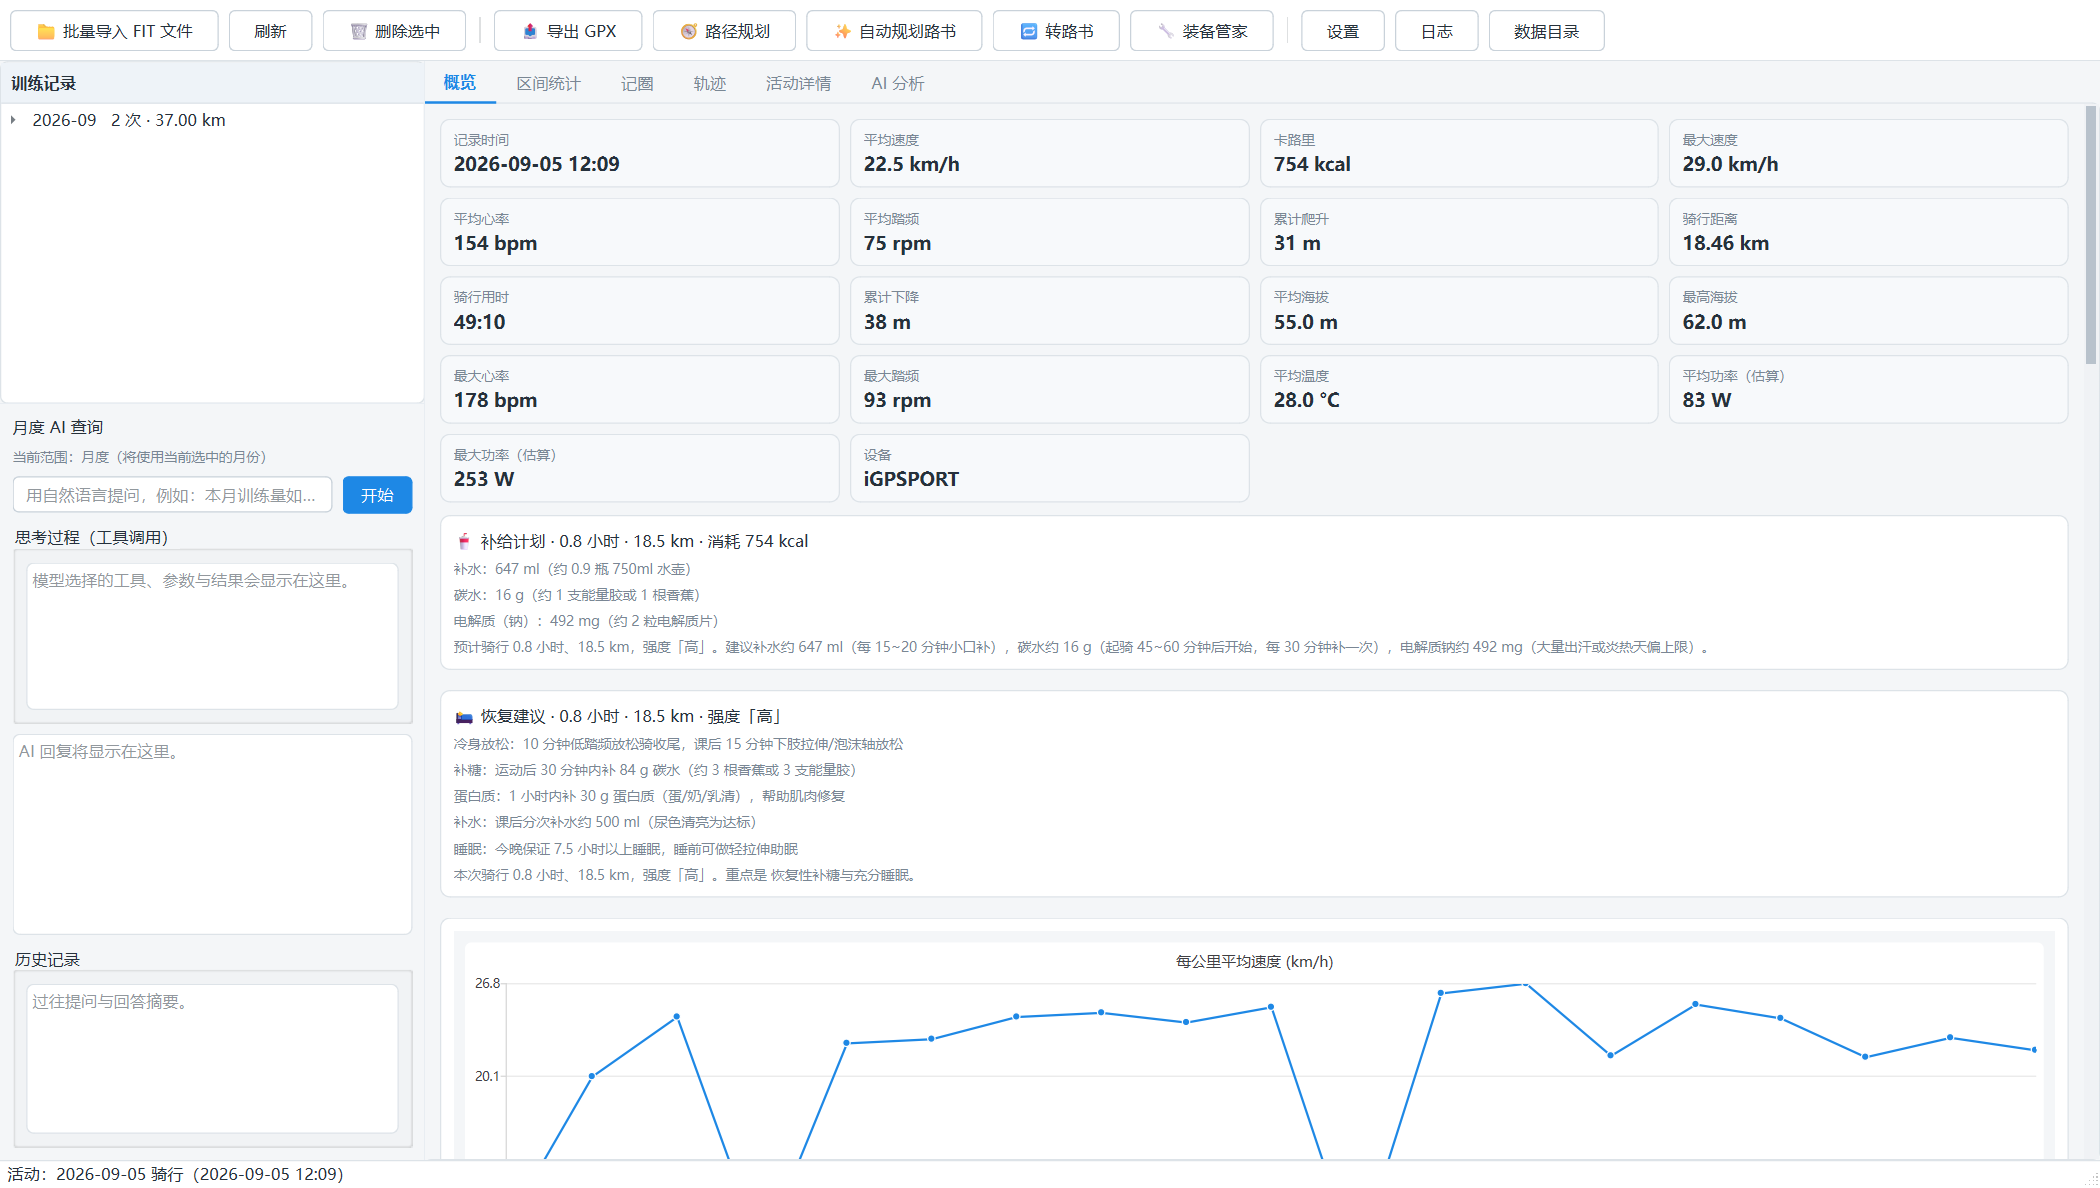
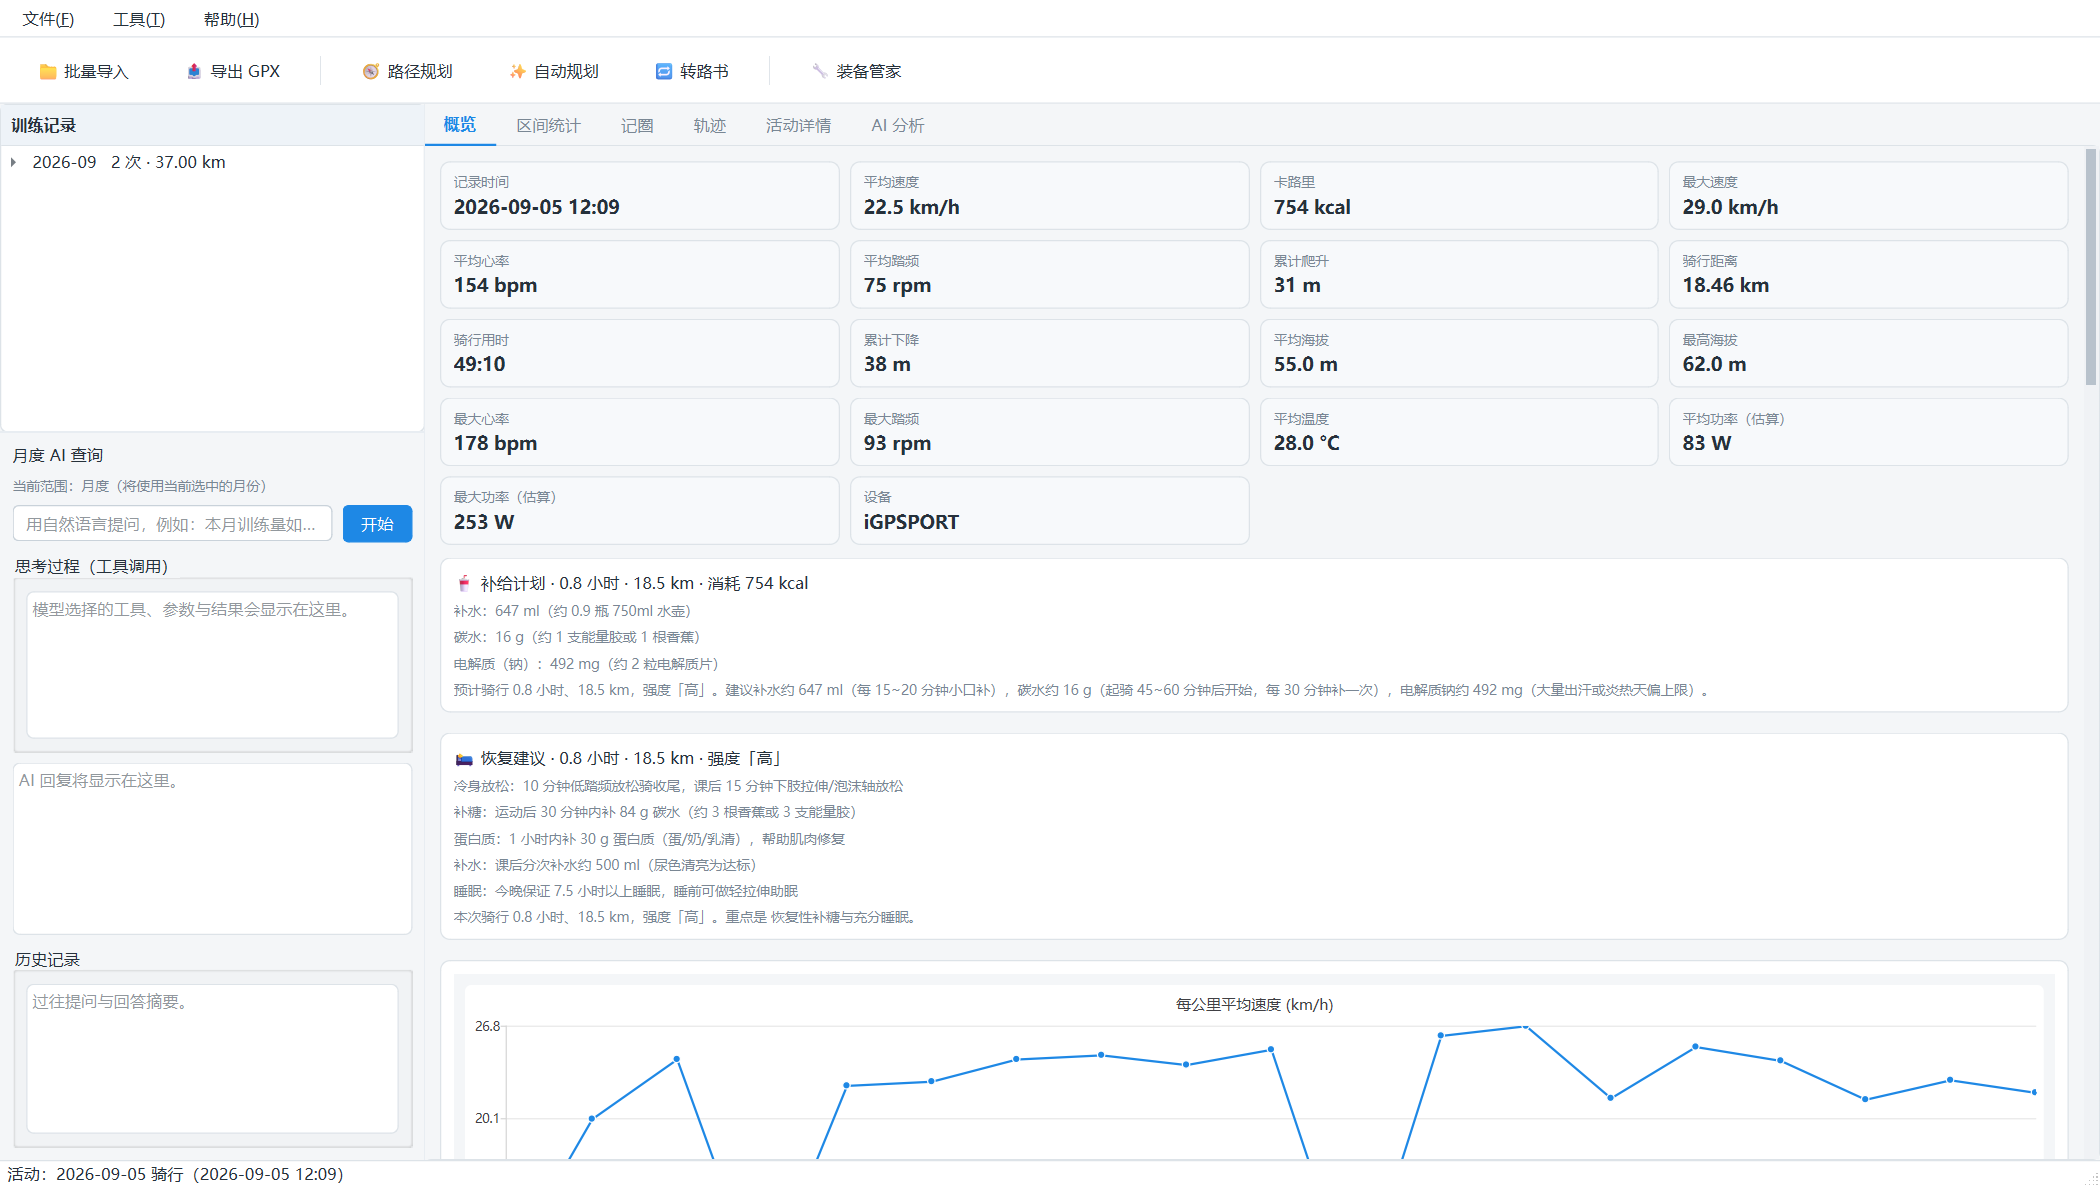
feat: 菜单栏重构 / 工具栏扁平化 / 日志入口收至设置「诊断与日志」 功能入口重构 - 新增菜单栏（文件(&F) / 工具(&T) / 帮助(&H)），承载全部功能入口：   文件：批量导入(Ctrl+O)、导出 GPX(Ctrl+E)、删除(Del)、退出   工具：路径规划、自动规划路书、转路书、装备管家、刷新(F5)   帮助：设置、打开数据目录、关于（含隐私说明） - 工具栏精简为 6 个高频按钮（导入/导出/规划/自动规划/转路书/装备管家），   设置/日志/数据目录移出工具栏，恢复常规桌面软件人机布局 - 日志查看器移至设置 → 诊断与日志 → 查看日志（面向排障/开发，

diff --git a/gui/main_window.py b/gui/main_window.py
@@ -42,7 +42,7 @@ from core import ai_analysis, ai_client, analysis, fit_parser, logging_setup, mo
 from core.config import Config
 from core.db import DB
 from gui import charts as ch
-from gui.dialogs import LogsDialog, SettingsDialog
+from gui.dialogs import SettingsDialog
 from gui.heatmap import RideHeatmapWidget
 from gui.theme import fmt_dt, fmt_duration, fmt_km, kmh
 from gui.track_widget import TrackWidget
@@ -165,49 +165,8 @@ class MainWindow(QMainWindow):
 
     # ---------------- UI 构建 ----------------
     def _build_ui(self):
-        tb = QToolBar()
-        tb.setMovable(False)
-        tb.setToolButtonStyle(Qt.ToolButtonTextOnly)
-
-        act_import = QAction("📁 批量导入 FIT 文件", self)
-        act_import.triggered.connect(self.import_files)
-        act_refresh = QAction("刷新", self)
-        act_refresh.triggered.connect(self.load_months)
-        act_settings = QAction("设置", self)
-        act_settings.triggered.connect(self.open_settings)
-        act_logs = QAction("日志", self)
-        act_logs.triggered.connect(self.open_logs)
-        act_dir = QAction("数据目录", self)
-        act_dir.triggered.connect(self.open_data_dir)
-        act_export = QAction("📤 导出 GPX", self)
-        act_export.triggered.connect(self.export_gpx)
-        act_plan = QAction("🧭 路径规划", self)
-        act_plan.triggered.connect(self.open_plan)
-        act_auto_plan = QAction("✨ 自动规划路书", self)
-        act_auto_plan.triggered.connect(self.open_auto_plan)
-        act_to_route = QAction("🔁 转路书", self)
-        act_to_route.triggered.connect(self.export_route)
-        # 装备管家（里程驱动的保养提醒）
-        act_gear = QAction("🔧 装备管家", self)
-        act_gear.triggered.connect(self.open_gear)
-        # 删除选中（批量）
-        act_delete = QAction("🗑 删除选中", self)
-        act_delete.triggered.connect(self.delete_selected)
-
-        tb.addAction(act_import)
-        tb.addAction(act_refresh)
-        tb.addAction(act_delete)
-        tb.addSeparator()
-        tb.addAction(act_export)
-        tb.addAction(act_plan)
-        tb.addAction(act_auto_plan)
-        tb.addAction(act_to_route)
-        tb.addAction(act_gear)
-        tb.addSeparator()
-        tb.addAction(act_settings)
-        tb.addAction(act_logs)
-        tb.addAction(act_dir)
-        self.addToolBar(tb)
+        self._build_menus()
+        self._build_toolbar()
 
         self.month_tree = QTreeWidget()
         self.month_tree.setHeaderLabels(["训练记录"])
@@ -244,6 +203,85 @@ class MainWindow(QMainWindow):
         splitter.setSizes([340, 940])
         self.setCentralWidget(splitter)
         self.statusBar().showMessage("就绪", 3000)
+
+    def _add_action(self, menu, text, slot, shortcut=None, tip=None):
+        """菜单项便捷构建：文本 + 槽 + 可选快捷键与状态栏提示。"""
+        act = QAction(text, self)
+        if shortcut:
+            act.setShortcut(shortcut)
+        if tip:
+            act.setStatusTip(tip)
+            act.setToolTip(tip)
+        act.triggered.connect(slot)
+        menu.addAction(act)
+        return act
+
+    def _build_menus(self):
+        """菜单栏：常规桌面软件布局——高频功能进工具栏，设置/诊断收进菜单。"""
+        mb = self.menuBar()
+
+        m_file = mb.addMenu("文件(&F)")
+        self._add_action(m_file, "📁 批量导入 FIT 文件…", self.import_files, "Ctrl+O",
+                         "批量导入码表导出的 FIT 文件（也可直接拖拽 .fit 进窗口）")
+        self._add_action(m_file, "📤 导出 GPX", self.export_gpx, "Ctrl+E",
+                         "把当前选中的活动导出为 GPX 1.1 文件")
+        m_file.addSeparator()
+        self._add_action(m_file, "🗑 删除选中", self.delete_selected, "Del",
+                         "删除左侧选中的活动记录（可多选）")
+        m_file.addSeparator()
+        self._add_action(m_file, "退出", self.close, "Ctrl+Q")
+
+        m_tools = mb.addMenu("工具(&T)")
+        self._add_action(m_tools, "🧭 路径规划", self.open_plan, tip="高德地图点击选点，逐段规划骑行路线")
+        self._add_action(m_tools, "✨ 自动规划路书", self.open_auto_plan, tip="一句话自动生成长途路书（分段接力 + 休息点）")
+        self._add_action(m_tools, "🔁 转路书", self.export_route, tip="把当前选中的活动转成路书分析（爬坡分级/AI/导出）")
+        self._add_action(m_tools, "🔧 装备管家", self.open_gear, tip="消耗件台账与里程驱动的保养提醒")
+        m_tools.addSeparator()
+        self._add_action(m_tools, "🔄 刷新", self.load_months, "F5", "重新加载训练记录")
+
+        m_help = mb.addMenu("帮助(&H)")
+        self._add_action(m_help, "⚙ 设置…", self.open_settings, tip="统计区间 / AI / 高德 Key / 年度目标 / 诊断日志")
+        self._add_action(m_help, "📂 打开数据目录", self.open_data_dir, tip="打开 fit.db 与日志所在文件夹")
+        m_help.addSeparator()
+        self._add_action(m_help, "关于…", self.show_about)
+
+    def _build_toolbar(self):
+        """工具栏：只保留高频操作，扁平分组样式（低频入口收进菜单栏）。"""
+        tb = QToolBar()
+        tb.setMovable(False)
+        tb.setToolButtonStyle(Qt.ToolButtonTextOnly)
+        tb.setObjectName("mainToolBar")
+        for item in [
+                ("📁 批量导入", self.import_files, "批量导入 FIT 文件（也可直接拖拽 .fit 进窗口）"),
+                ("📤 导出 GPX", self.export_gpx, "把当前选中的活动导出为 GPX"),
+                None,
+                ("🧭 路径规划", self.open_plan, "高德地图点击选点，逐段规划骑行路线"),
+                ("✨ 自动规划", self.open_auto_plan, "一句话自动生成长途路书（分段接力 + 休息点）"),
+                ("🔁 转路书", self.export_route, "把当前活动转成路书分析（爬坡分级/AI/导出）"),
+                None,
+                ("🔧 装备管家", self.open_gear, "消耗件台账与里程驱动的保养提醒"),
+        ]:
+            if item is None:
+                tb.addSeparator()
+                continue
+            text, slot, tip = item
+            act = QAction(text, self)
+            act.setToolTip(tip)
+            act.setStatusTip(tip)
+            act.triggered.connect(slot)
+            tb.addAction(act)
+        self.addToolBar(tb)
+
+    def show_about(self):
+        """关于对话框。"""
+        QMessageBox.about(
+            self, f"关于 {self.config.get('app_name')}",
+            f"<h3>{self.config.get('app_name')} v{self.config.get('version')}</h3>"
+            "<p>免费、本地运行的骑行 FIT 数据离线分析软件（PySide6 原生界面，"
+            "SQLite 本地存储，无浏览器、无本地服务）。</p>"
+            "<p style='color:#7a8794'>数据目录：" + str(self.data_dir) + "</p>"
+            "<p style='color:#7a8794'>数据仅存本机；联网功能（AI/高德/海拔补全）"
+            "均需自行配置且只在你主动使用时调用。</p>")
 
     # ---------------- 左侧月度 AI 对话面板 ----------------
     def _build_ai_panel(self):
@@ -1528,10 +1566,6 @@ class MainWindow(QMainWindow):
             self.show_activity(self.cur_activity["id"], force=True)
         elif self._cur_month is not None:
             self.show_month(self._cur_month, force=True)
-
-    def open_logs(self):
-        dlg = LogsDialog(self)
-        dlg.exec()
 
     def open_data_dir(self):
         try:

diff --git a/gui/theme.py b/gui/theme.py
@@ -29,10 +29,19 @@ def apply_light_palette(app):
 QSS = """
 QWidget { font-family: "Microsoft YaHei", "PingFang SC", "Segoe UI"; font-size: 13px; color: #26313b; }
 QMainWindow, QDialog { background: #f4f6f8; }
-QToolBar { background: #ffffff; border-bottom: 1px solid #dde3e8; spacing: 8px; padding: 6px 8px; }
-QToolBar QToolButton { background: #ffffff; border: 1px solid #c9d2da; border-radius: 5px; padding: 5px 14px; }
-QToolBar QToolButton:hover { border-color: #1e88e5; color: #1e88e5; }
-QToolBar QToolButton:pressed { background: #eef4fb; }
+QToolBar { background: #ffffff; border-bottom: 1px solid #dde3e8; spacing: 4px; padding: 6px 10px; }
+QToolBar::separator { width: 1px; background: #e0e5ea; margin: 5px 8px; }
+QToolBar QToolButton { background: transparent; border: none; border-radius: 6px; padding: 6px 14px; }
+QToolBar QToolButton:hover { background: #eef4fb; color: #1565c0; }
+QToolBar QToolButton:pressed { background: #dcebfa; }
+QMenuBar { background: #ffffff; border-bottom: 1px solid #dde3e8; }
+QMenuBar::item { padding: 6px 12px; background: transparent; border-radius: 4px; }
+QMenuBar::item:selected { background: #eef4fb; color: #1565c0; }
+QMenu { background: #ffffff; border: 1px solid #dde3e8; border-radius: 6px; padding: 4px; }
+QMenu::item { padding: 7px 28px 7px 14px; border-radius: 4px; }
+QMenu::item:selected { background: #eef4fb; color: #1565c0; }
+QMenu::item:disabled { color: #b0b8c0; }
+QMenu::separator { height: 1px; background: #e8edf2; margin: 4px 8px; }
 QPushButton { background: #ffffff; border: 1px solid #c9d2da; border-radius: 5px; padding: 5px 14px; }
 QPushButton:hover { border-color: #1e88e5; color: #1e88e5; }
 QPushButton:pressed { background: #eef4fb; }

diff --git a/gui/dialogs.py b/gui/dialogs.py
@@ -140,6 +140,20 @@ class SettingsDialog(QDialog):
         plan_tip.setWordWrap(True)
         form.addRow(plan_tip)
 
+        # 诊断与日志（面向排障/开发，一般用户无需使用）
+        diag_title = QLabel("诊断与日志")
+        diag_title.setObjectName("h3")
+        form.addRow(diag_title)
+        diag_row = QHBoxLayout()
+        btn_logs = QPushButton("📜 查看日志")
+        btn_logs.clicked.connect(self._open_logs)
+        diag_row.addWidget(btn_logs)
+        diag_note = QLabel("运行日志与 AI 工具调用记录（滚动文件 + 实时查看），排障用。")
+        diag_note.setObjectName("muted")
+        diag_note.setWordWrap(True)
+        diag_row.addWidget(diag_note, 1)
+        form.addRow("", diag_row)
+
         buttons = QDialogButtonBox(QDialogButtonBox.Ok | QDialogButtonBox.Cancel)
         buttons.button(QDialogButtonBox.Ok).setText("保存")
         buttons.button(QDialogButtonBox.Cancel).setText("取消")
@@ -193,6 +207,10 @@ class SettingsDialog(QDialog):
             )
         except Exception as e:
             self.lblFtpEst.setText(f"估算失败：{e}")
+
+    def _open_logs(self):
+        """打开日志查看器（诊断二级入口，嵌在设置内）。"""
+        LogsDialog(self).exec()
 
     def _do_reidentify(self):
         """先保存当前设置（含型号表），再触发主窗口重新识别所有设备。"""

diff --git a/README_EN.md b/README_EN.md
@@ -185,7 +185,8 @@ The "Track" page supports two modes, auto-switched:
 - Data directory: `%APPDATA%\FitAnalyzer\`
   - `fit.db` SQLite database (activities / laps / per-record points / gear ledger)
   - `logs\fit_analyzer.log` rolling log (2 MB × 5 files)
-- Toolbar "Logs" for live view (auto-refresh); "Data directory" opens the data folder.
+- Menu bar (**File / Tools / Help**) hosts every entry with shortcuts (import Ctrl+O, export GPX Ctrl+E, delete Del, refresh F5); settings live under Help → Settings, plus an About dialog.
+- Log viewer is at **Settings → Diagnostics & logs → View logs** (auto-refresh, for troubleshooting/development); data directory is under Help → Open data directory.
 - CLI args: `--data-dir` (custom data dir), `--debug` (verbose logging), `--selftest` (offscreen self-test).
 
 ## 7. Repackaging the EXE
